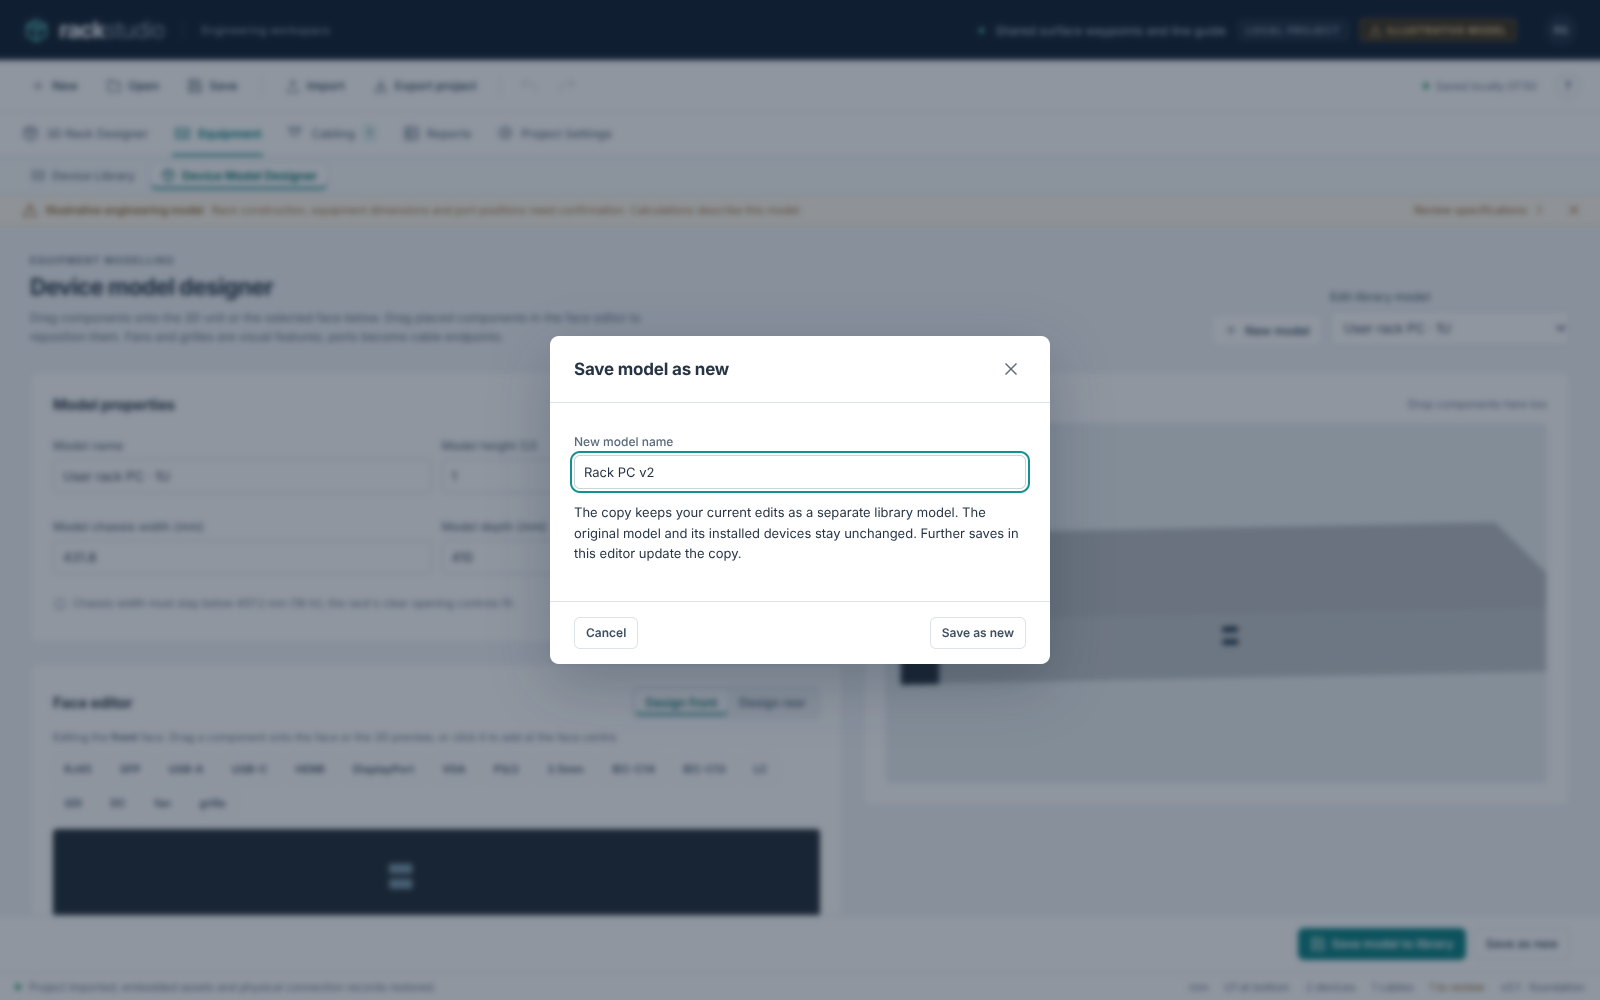
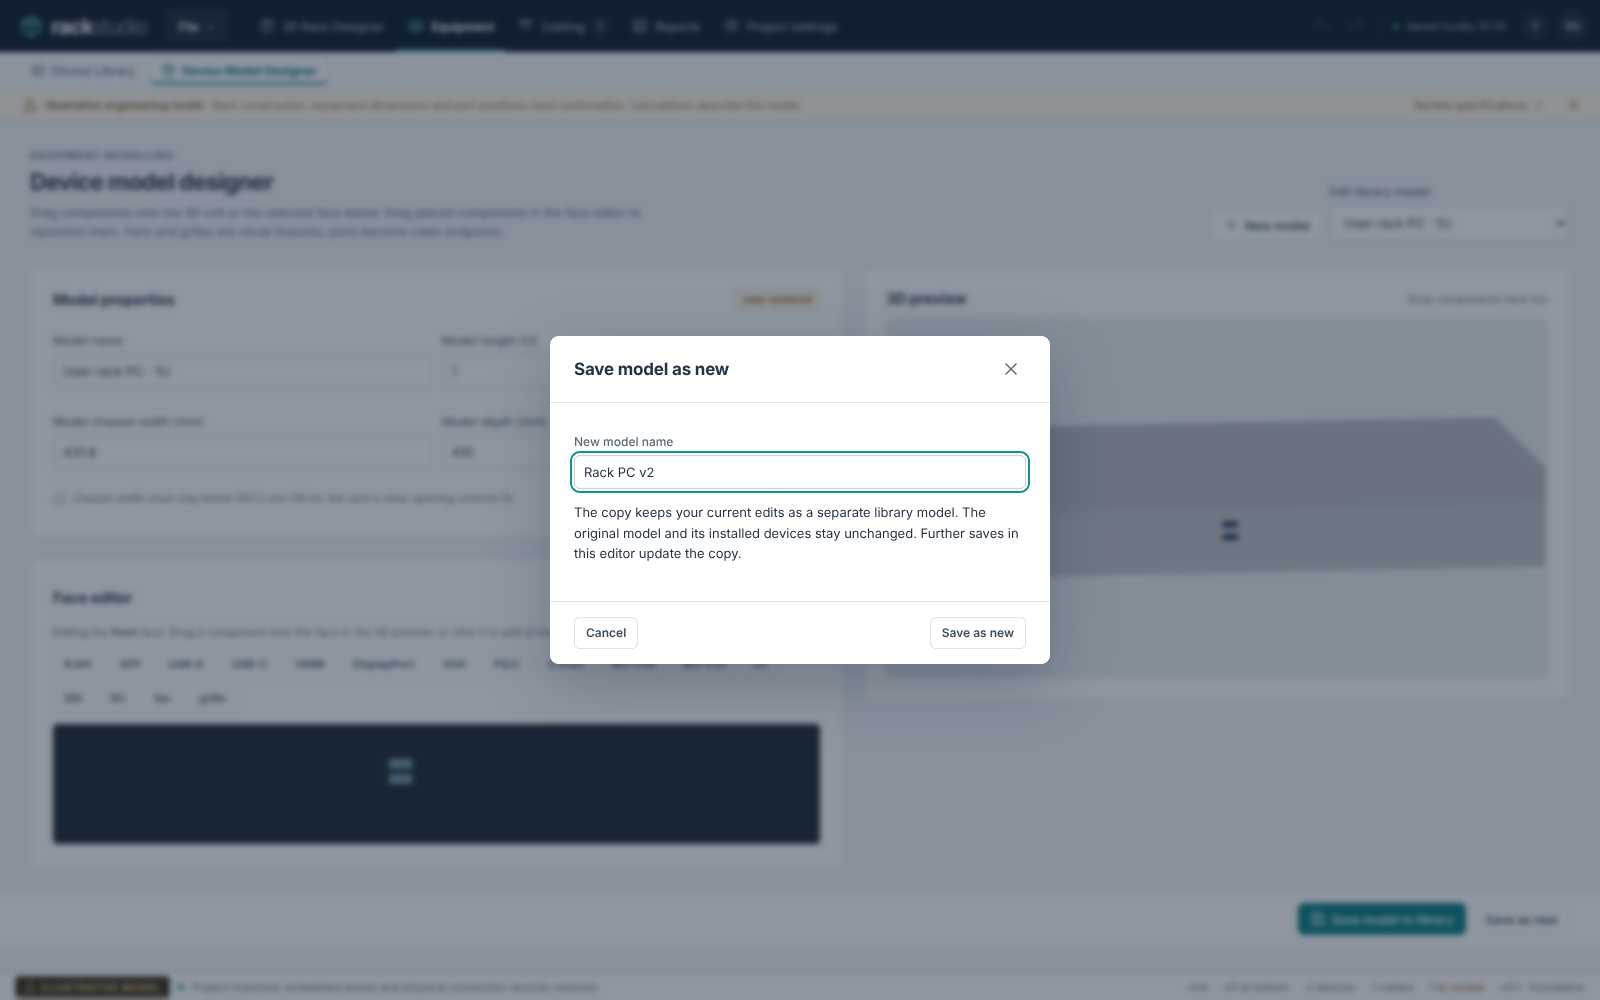
Select installed equipment through the helper in the PC wiring workflow; record results
The photographed-PC wiring workflow still clicked the old installed strip
directly. Refresh the page-level captures that show the new top bar and
record the full browser results in TESTING.md.

Claude-Session: https://claude.ai/code/session_018U6FEL3WmwdkvnnBn1fmB2

diff --git a/tests/user-rack-pc.spec.ts b/tests/user-rack-pc.spec.ts
@@ -3,7 +3,7 @@ import type { Page } from '@playwright/test';
 import { readFile } from 'node:fs/promises';
 import { resolve } from 'node:path';
 import type { DeviceDefinition, Project } from '../src/model';
-import { fileAction, openView, setView } from './navigation';
+import { fileAction, openView, selectInstalled, setView } from './navigation';
 
 const definitionName = 'User rack PC · 1U';
 const definitionId = 'def-user-rack-pc';
@@ -362,10 +362,7 @@ test('a photographed rear network port connects through the UI and retains ident
     .locator('.workspace-tabs')
     .getByRole('button', { name: '3D Rack Designer', exact: true })
     .click();
-  await page
-    .locator('.installed-pills > button')
-    .filter({ hasText: `${definitionName} 1` })
-    .click();
+  await selectInstalled(page, `${definitionName} 1`);
   const startU = page.locator('.inspector').getByLabel('Start U', { exact: true });
   await startU.fill('9');
   await startU.press('Tab');

diff --git a/docs/TESTING.md b/docs/TESTING.md
@@ -55,4 +55,6 @@ UI polish branch, 27 October 2026 (Claude Code cloud session, Chromium 1248, one
 
 After the five-tab navigation (option 3) the full suite, one spec file per invocation, gave 38 passed and 5 failed. The failures were four screenshot timeouts (generic shelf placement, device rails, adjacent-rack assemblies, photographed-PC placement) and the documented restored-Library-tab save/reload issue. Grouped views are opened in tests through `tests/navigation.ts` (`openView`), which clicks the parent tab and then the view. PR CI stops at the first failure; on this branch that was the known Linux generic-shelf placement workflow.
 
+Single top bar, File menu, view cube and Installed sidebar tab (28 October 2026): the full suite, one spec file per invocation, gave 39 passed and 3 failed, after fixing one missed test click. The failures were the screenshot timeouts in device rails, adjacent-rack assemblies and photographed-PC placement, which also fail on `main`. Tests drive the File menu, camera views and installed equipment through `tests/navigation.ts` (`fileAction`, `fileItem`, `setView`, `viewState`, `selectInstalled`).
+
 The `Validate` GitHub workflow runs locked installation, typecheck, lint, unit/integration tests, production build and Chromium workflows on main pushes/PRs, with dependency-store caching, one Linux job and no failure suppression. It can also be started manually. A successful upload is not a test result.
